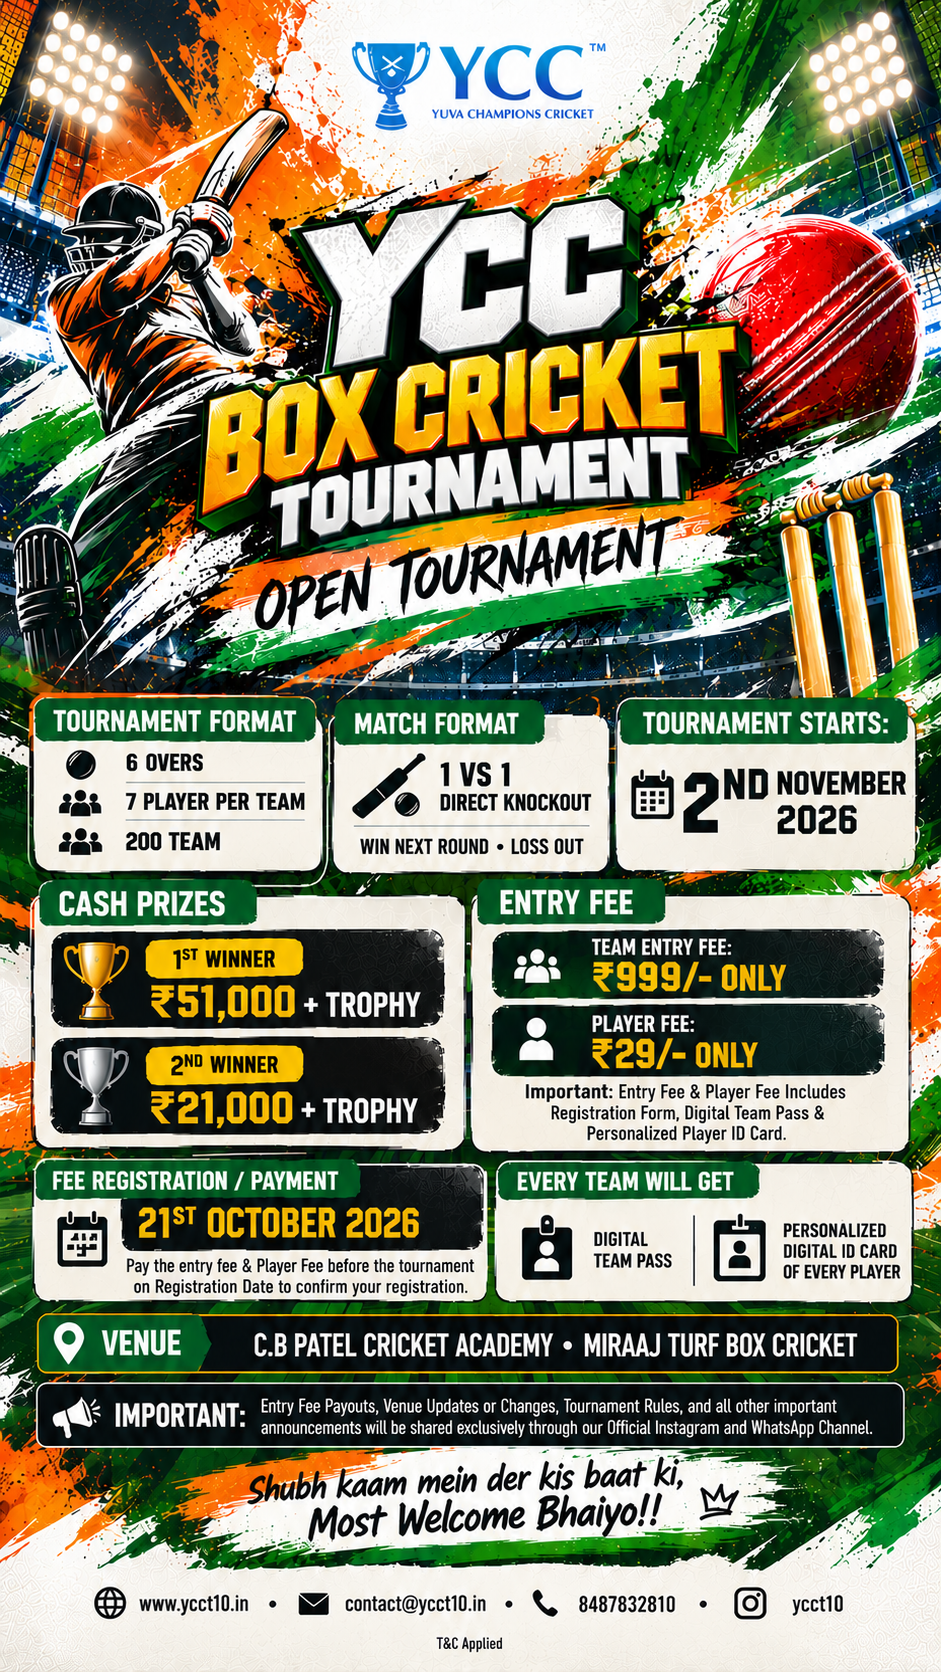
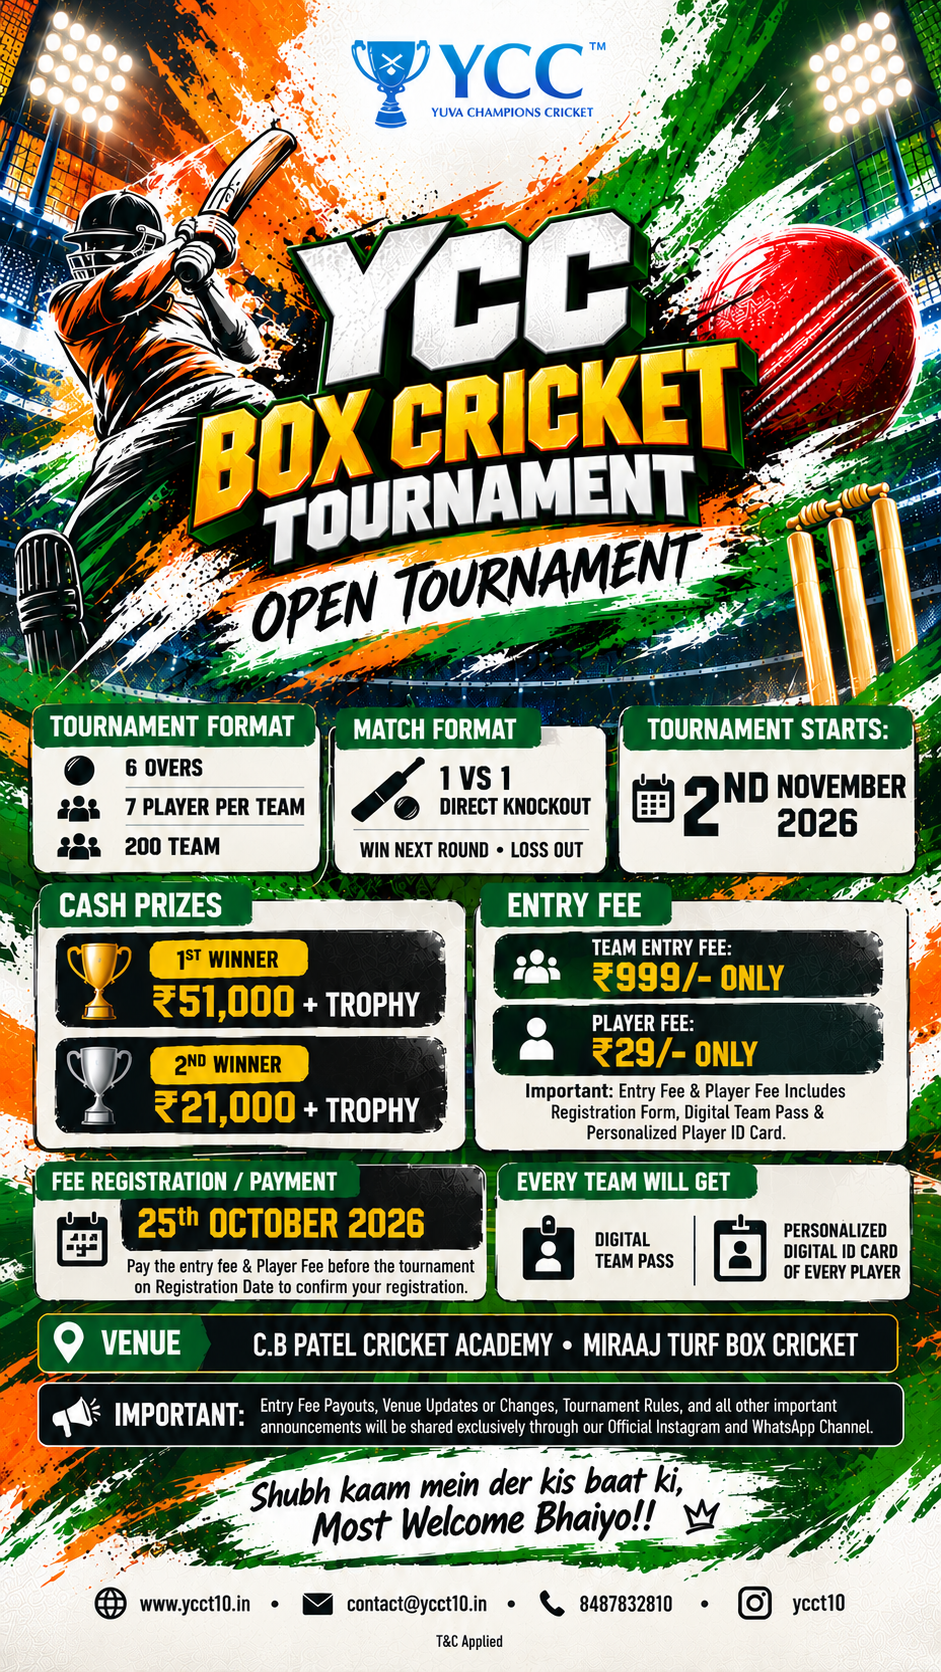
Box Cricket: Fee Payment Date -> 25th October 2026, updated poster
Website's Fee Payment Date text now matches the poster (both 25th
October 2026). poster-999.png updated.

Claude-Session: https://claude.ai/code/session_01GyWhy75g1ezGdTAMn5TX1a

diff --git a/src/app/(public)/events/[slug]/page.tsx b/src/app/(public)/events/[slug]/page.tsx
@@ -314,7 +314,7 @@ export default async function EventDetailPage({
                             <p className="text-xs font-semibold uppercase tracking-wide text-amber-700">
                               Fee Payment Date
                             </p>
-                            <p className="text-lg font-bold text-slate-900">21st October 2026</p>
+                            <p className="text-lg font-bold text-slate-900">25th October 2026</p>
                             <p className="mt-1 text-sm leading-relaxed text-amber-900/80">
                               Team Entry Fee &amp; Player Fee must be paid in advance to
                               confirm your registration.
